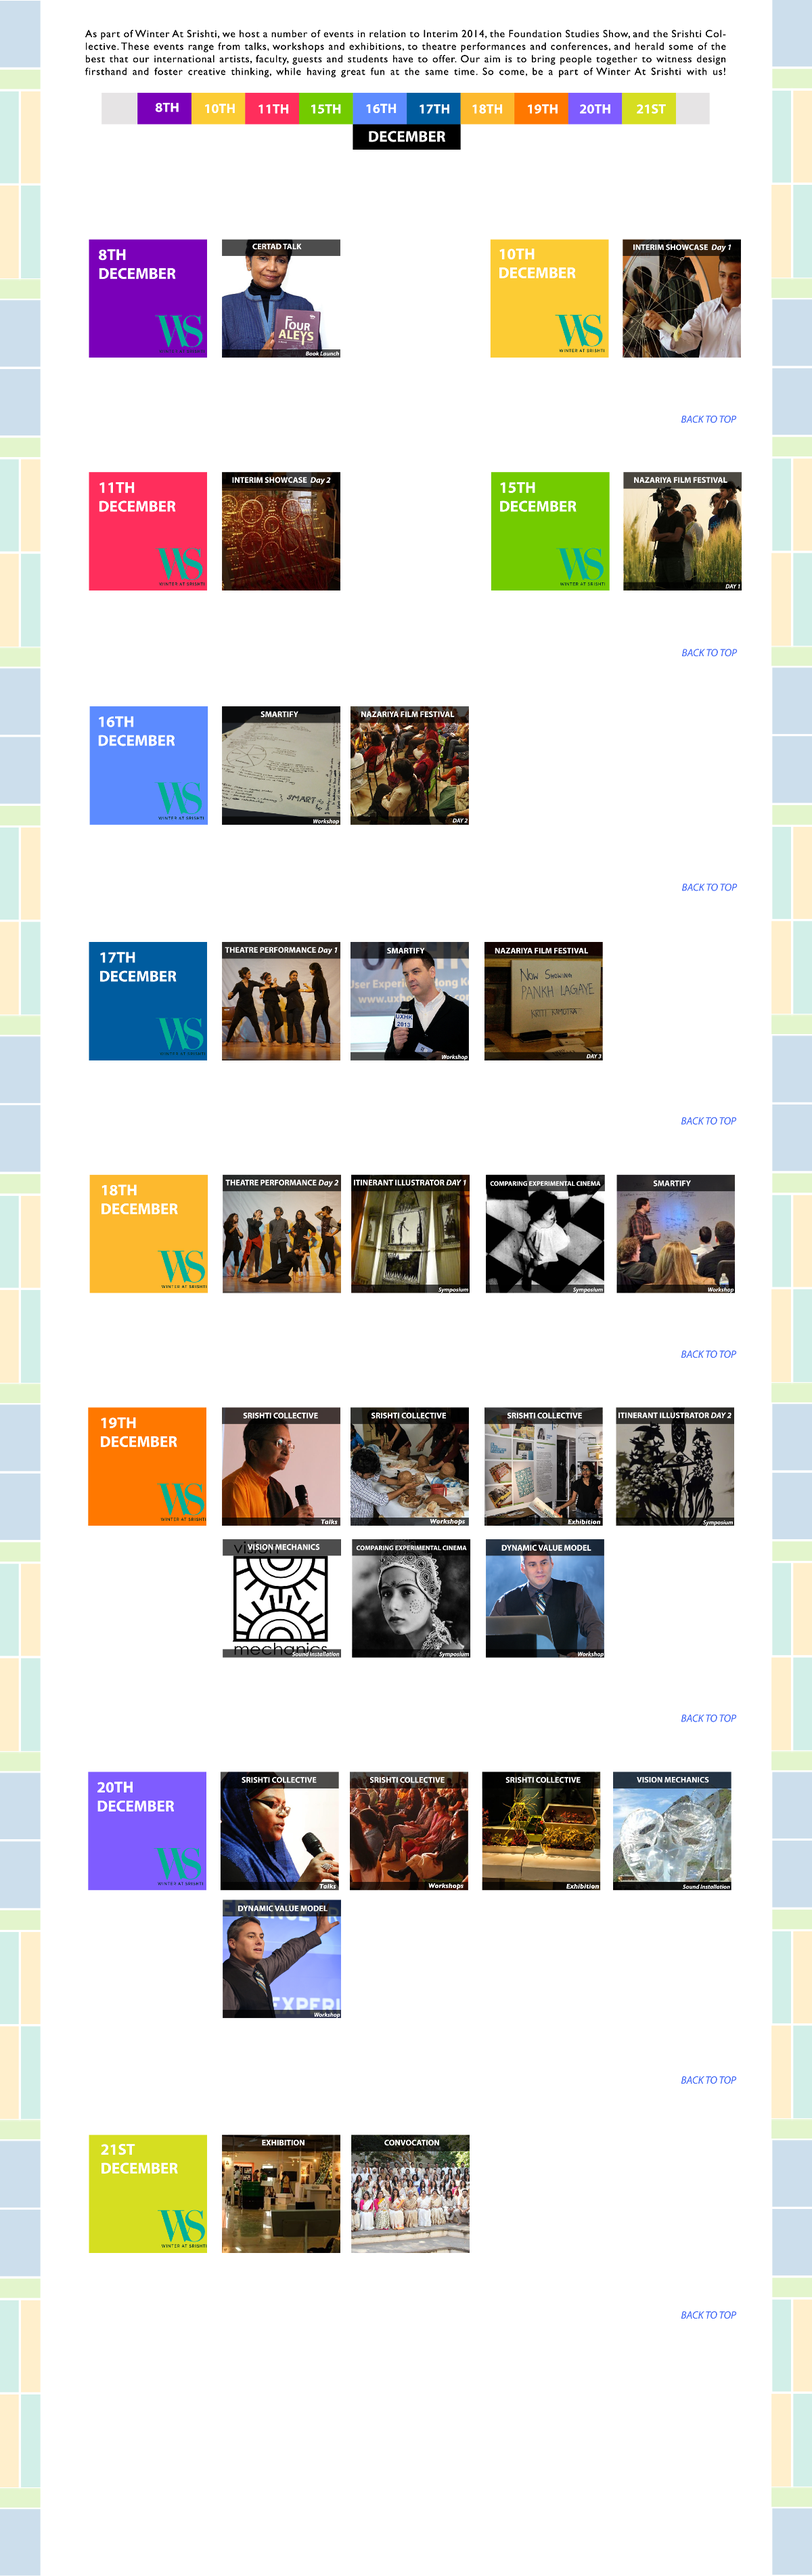
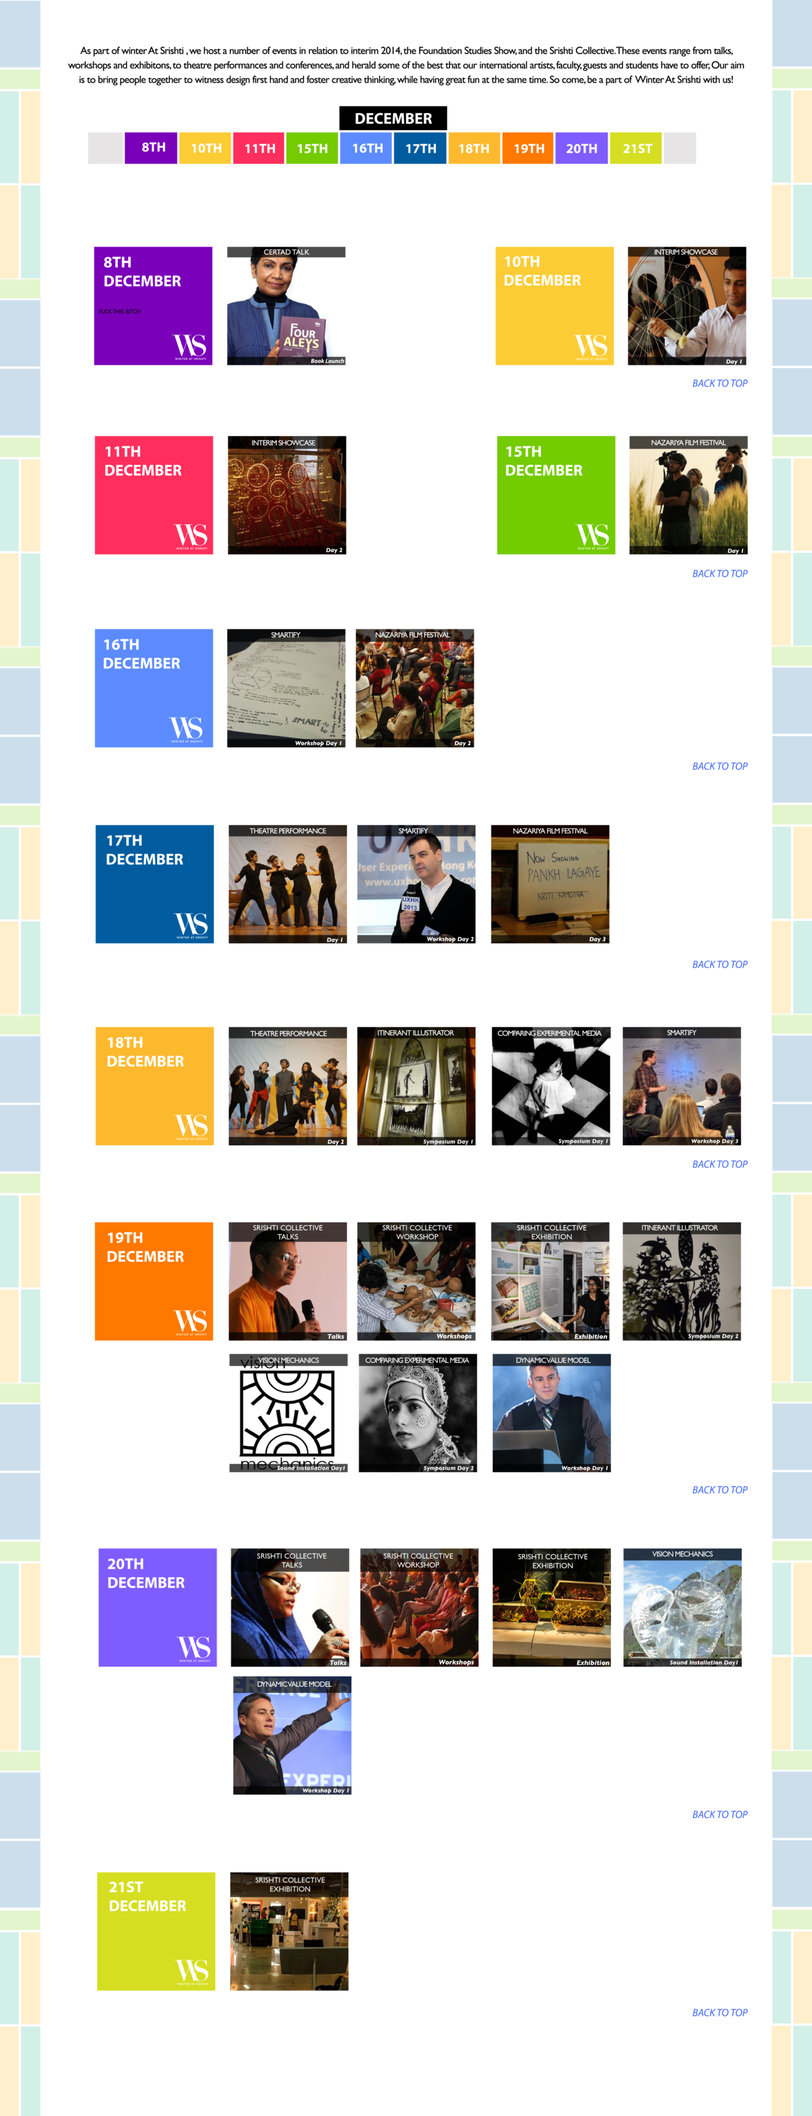
events page ppups added

diff --git a/events.html b/events.html
@@ -57,25 +57,178 @@
 
 	<div class="container" id="mycontainer">
 
-		<img src="images/events.png" width="1200" height="3804" border="0" usemap="#map" />
+		<img src="images/events.png" width="1200" height="3126" border="0" usemap="#map" />
 
 		<map name="map">
 			<!-- #$-:Image map file created by GIMP Image Map plug-in -->
 			<!-- #$-:GIMP Image Map plug-in by Maurits Rijk -->
 			<!-- #$-:Please do not edit lines starting with "#$" -->
 			<!-- #$VERSION:2.3 -->
-			<!-- #$AUTHOR:Mahidhar -->
-			<area shape="rect" coords="1002,606,1090,631" href="events.html" />
-			<area shape="rect" coords="1006,956,1089,973" href="events.html" />
-			<area shape="rect" coords="1001,1299,1095,1324" href="events.html" />
-			<area shape="rect" coords="1000,1643,1090,1669" href="events.html" />
-			<area shape="rect" coords="1002,1988,1091,2015" href="events.html" />
-			<area shape="rect" coords="1002,2526,1094,2550" href="events.html" />
-			<area shape="rect" coords="998,3058,1090,3088" href="events.html" />
-			<area shape="rect" coords="1001,3405,1091,3431" href="events.html" />
+			<!-- #$AUTHOR:Mahidhar  -->
+			<area shape="rect" coords="1022,554,1108,581" href="events.html"/>
+			<area shape="rect" coords="1021,835,1108,860" href="events.html"/>
+			<area shape="rect" coords="1020,1118,1108,1146" href="events.html"/>
+			<area shape="rect" coords="1020,1415,1109,1436" href="events.html"/>
+			<area shape="rect" coords="1021,1708,1107,1734" href="events.html"/>
+			<area shape="rect" coords="1015,2188,1109,2217" href="events.html"/>
+			<area shape="rect" coords="1019,2669,1107,2694" href="events.html"/>
+			<area shape="rect" coords="1020,2961,1109,2988" href="events.html"/>
+			<area shape="rect" coords="335,364,510,539" alt="1" data-toggle="modal" data-target="#basicModal1"/>
+			<area shape="rect" coords="927,364,1102,539" alt="2" data-toggle="modal" data-target="#basicModal2"/>
+			<area shape="rect" coords="338,644,513,819" alt="3" data-toggle="modal" data-target="#basicModal3"/>
+			<area shape="rect" coords="929,644,1104,819" alt="4" data-toggle="modal" data-target="#basicModal4"/>
+			<area shape="rect" coords="335,928,510,1103" alt="5" data-toggle="modal" data-target="#basicModal5"/>
+			<area shape="rect" coords="525,928,700,1103" alt="6" data-toggle="modal" data-target="#basicModal6"/>
+			<area shape="rect" coords="337,1218,512,1393" alt="7" data-toggle="modal" data-target="#basicModal7"/>
+			<area shape="rect" coords="528,1218,703,1393" alt="8" data-toggle="modal" data-target="#basicModal8"/>
+			<area shape="rect" coords="725,1218,900,1393" alt="9" data-toggle="modal" data-target="#basicModal9"/>
+			<area shape="rect" coords="338,1516,513,1691" alt="10" data-toggle="modal" data-target="#basicModal10"/>
+			<area shape="rect" coords="527,1516,702,1691" alt="11" data-toggle="modal" data-target="#basicModal11"/>
+			<area shape="rect" coords="727,1516,902,1691" alt="12" data-toggle="modal" data-target="#basicModal12"/>
+			<area shape="rect" coords="920,1516,1095,1691" alt="13" data-toggle="modal" data-target="#basicModal13"/>
+			<area shape="rect" coords="919,1806,1094,1981" alt="14" data-toggle="modal" data-target="#basicModal14"/>
+			<area shape="rect" coords="339,1999,514,2174" alt="15" data-toggle="modal" data-target="#basicModal15"/>
+			<area shape="rect" coords="530,1999,705,2174" alt="16" data-toggle="modal" data-target="#basicModal16"/>
+			<area shape="rect" coords="727,1999,902,2174" alt="17" data-toggle="modal" data-target="#basicModal17"/>
+			<area shape="rect" coords="920,2287,1095,2462" alt="18" data-toggle="modal" data-target="#basicModal18"/>
+			<area shape="rect" coords="344,2476,519,2651" alt="19" data-toggle="modal" data-target="#basicModal19"/>
 		</map>
 
 		<br><br>
+
+		<div class="modal fade" id="basicModal1" tabindex="-1" role="dialog" aria-labelledby="basicModal1" aria-hidden="true">
+			<div class="modal-dialog modal-lg">
+				<div class="modal-content">
+					<div class="modal-body"><img src="images/eventspopup/1.png" alt="" class="popupimg"></div>
+				</div>
+			</div>
+		</div>
+		<div class="modal fade" id="basicModal2" tabindex="-1" role="dialog" aria-labelledby="basicModal2" aria-hidden="true">
+			<div class="modal-dialog modal-lg">
+				<div class="modal-content">
+					<div class="modal-body"><img src="images/eventspopup/2.png" alt="" class="popupimg"></div>
+				</div>
+			</div>
+		</div>
+		<div class="modal fade" id="basicModal3" tabindex="-1" role="dialog" aria-labelledby="basicModal3" aria-hidden="true">
+			<div class="modal-dialog modal-lg">
+				<div class="modal-content">
+					<div class="modal-body"><img src="images/eventspopup/3.png" alt="" class="popupimg"></div>
+				</div>
+			</div>
+		</div>
+		<div class="modal fade" id="basicModal4" tabindex="-1" role="dialog" aria-labelledby="basicModal4" aria-hidden="true">
+			<div class="modal-dialog modal-lg">
+				<div class="modal-content">
+					<div class="modal-body"><img src="images/eventspopup/4.png" alt="" class="popupimg"></div>
+				</div>
+			</div>
+		</div>
+		<div class="modal fade" id="basicModal5" tabindex="-1" role="dialog" aria-labelledby="basicModal5" aria-hidden="true">
+			<div class="modal-dialog modal-lg">
+				<div class="modal-content">
+					<div class="modal-body"><img src="images/eventspopup/5.png" alt="" class="popupimg"></div>
+				</div>
+			</div>
+		</div>
+		<div class="modal fade" id="basicModal6" tabindex="-1" role="dialog" aria-labelledby="basicModal6" aria-hidden="true">
+			<div class="modal-dialog modal-lg">
+				<div class="modal-content">
+					<div class="modal-body"><img src="images/eventspopup/6.png" alt="" class="popupimg"></div>
+				</div>
+			</div>
+		</div>
+		<div class="modal fade" id="basicModal7" tabindex="-1" role="dialog" aria-labelledby="basicModal7" aria-hidden="true">
+			<div class="modal-dialog modal-lg">
+				<div class="modal-content">
+					<div class="modal-body"><img src="images/eventspopup/7.png" alt="" class="popupimg"></div>
+				</div>
+			</div>
+		</div>
+		<div class="modal fade" id="basicModal8" tabindex="-1" role="dialog" aria-labelledby="basicModal8" aria-hidden="true">
+			<div class="modal-dialog modal-lg">
+				<div class="modal-content">
+					<div class="modal-body"><img src="images/eventspopup/8.png" alt="" class="popupimg"></div>
+				</div>
+			</div>
+		</div>
+		<div class="modal fade" id="basicModal9" tabindex="-1" role="dialog" aria-labelledby="basicModal9" aria-hidden="true">
+			<div class="modal-dialog modal-lg">
+				<div class="modal-content">
+					<div class="modal-body"><img src="images/eventspopup/9.png" alt="" class="popupimg"></div>
+				</div>
+			</div>
+		</div>
+		<div class="modal fade" id="basicModal10" tabindex="-1" role="dialog" aria-labelledby="basicModal10" aria-hidden="true">
+			<div class="modal-dialog modal-lg">
+				<div class="modal-content">
+					<div class="modal-body"><img src="images/eventspopup/10.png" alt="" class="popupimg"></div>
+				</div>
+			</div>
+		</div>
+		<div class="modal fade" id="basicModal11" tabindex="-1" role="dialog" aria-labelledby="basicModal11" aria-hidden="true">
+			<div class="modal-dialog modal-lg">
+				<div class="modal-content">
+					<div class="modal-body"><img src="images/eventspopup/11.png" alt="" class="popupimg"></div>
+				</div>
+			</div>
+		</div>
+		<div class="modal fade" id="basicModal12" tabindex="-1" role="dialog" aria-labelledby="basicModal12" aria-hidden="true">
+			<div class="modal-dialog modal-lg">
+				<div class="modal-content">
+					<div class="modal-body"><img src="images/eventspopup/12.png" alt="" class="popupimg"></div>
+				</div>
+			</div>
+		</div>
+		<div class="modal fade" id="basicModal13" tabindex="-1" role="dialog" aria-labelledby="basicModal13" aria-hidden="true">
+			<div class="modal-dialog modal-lg">
+				<div class="modal-content">
+					<div class="modal-body"><img src="images/eventspopup/13.png" alt="" class="popupimg"></div>
+				</div>
+			</div>
+		</div>
+		<div class="modal fade" id="basicModal14" tabindex="-1" role="dialog" aria-labelledby="basicModal14" aria-hidden="true">
+			<div class="modal-dialog modal-lg">
+				<div class="modal-content">
+					<div class="modal-body"><img src="images/eventspopup/14.png" alt="" class="popupimg"></div>
+				</div>
+			</div>
+		</div>
+		<div class="modal fade" id="basicModal15" tabindex="-1" role="dialog" aria-labelledby="basicModal15" aria-hidden="true">
+			<div class="modal-dialog modal-lg">
+				<div class="modal-content">
+					<div class="modal-body"><img src="images/eventspopup/15.png" alt="" class="popupimg"></div>
+				</div>
+			</div>
+		</div>
+		<div class="modal fade" id="basicModal16" tabindex="-1" role="dialog" aria-labelledby="basicModal16" aria-hidden="true">
+			<div class="modal-dialog modal-lg">
+				<div class="modal-content">
+					<div class="modal-body"><img src="images/eventspopup/16.png" alt="" class="popupimg"></div>
+				</div>
+			</div>
+		</div>
+		<div class="modal fade" id="basicModal17" tabindex="-1" role="dialog" aria-labelledby="basicModal17" aria-hidden="true">
+			<div class="modal-dialog modal-lg">
+				<div class="modal-content">
+					<div class="modal-body"><img src="images/eventspopup/17.png" alt="" class="popupimg"></div>
+				</div>
+			</div>
+		</div>
+		<div class="modal fade" id="basicModal18" tabindex="-1" role="dialog" aria-labelledby="basicModal18" aria-hidden="true">
+			<div class="modal-dialog modal-lg">
+				<div class="modal-content">
+					<div class="modal-body"><img src="images/eventspopup/16.png" alt="" class="popupimg"></div>
+				</div>
+			</div>
+		</div>
+		<div class="modal fade" id="basicModal19" tabindex="-1" role="dialog" aria-labelledby="basicModal19" aria-hidden="true">
+			<div class="modal-dialog modal-lg">
+				<div class="modal-content">
+					<div class="modal-body"><img src="images/eventspopup/17.png" alt="" class="popupimg"></div>
+				</div>
+			</div>
+		</div>
 
 		<p class="copyright">Contact Us | Copyright 2014 Copyright &copy; Srishti School of Art, Design & Technology 2014</p>
 	</div>
